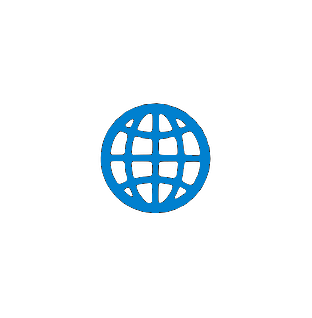
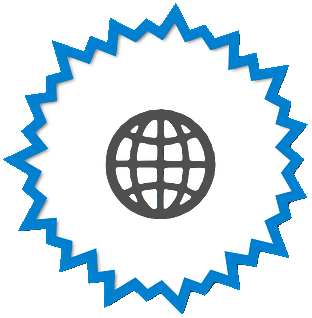
update to website

Changed region(s): [[0.0, 0.0, 0.9808, 0.9906], [0.3173, 0.3113, 0.6923, 0.7075]]

diff --git a/ourplatforms.html b/ourplatforms.html
@@ -59,33 +59,21 @@
       <!--------- MAIN AREA ------------>
       <main>
          <!--------- PLATFORMS ------------>
-         <section id="our_platforms">
-            <div class="container-fluid">
-               <div class="row">
-                  <div class="col-md-6">
-                     <div class="platforms_text text-left">
-                        <h1>Our Platforms</h1>
-                        <p>We have created a multitude of platforms for our users so they can get our cutting edge features even if they don't want to use our browser. Click on the icons to learn more. We look forward to your support!</p>
-                     </div>
-                  </div>
-                  <div class="col-md-6">
-                     <img src="./resources/img/backend-4496461_1280.png" alt="platform" class="img-fluid platform_img">
-                  </div>
-               </div>
-            </div>
+         <section id="our_platforms"> 
          </section>
          <!--------- PLATFORMS ------------>
          <!--------- CYDOG POPPUP   ------------>
          <section id="cydog_popUp_platform_info">
             <section class="about_us" style="position: relative;">
                <div class="container">
+               <img src="./resources/img/ourplatformsheader.png" alt="cydog_exploration" class="img-fluid">
                <div class="container">
                   <div class="row">
                      <div class="col-12">
                         <div class="graphics_up"></div>
                      </div>
                   </div>
-                  <div class="row modal_of" style="background-color:">
+                  <div class="row modal_of">
                      <div class="col-12 col-md-6 mb-5">
                         <div class="d-flex flex-row">
                            <div>
@@ -275,6 +263,31 @@
             </section>
          </section>
          <!--------- CYDOG POPPUP   ------------>
+         <!--------- ABOUT CYDOG   ------------>
+         <section id="our_platforms"> 
+         </section>
+         <section id="about_cydog">
+            <div class="container">
+               <h2>Tools for the Webfarer!</h2>
+               <div class="row">
+                  <div class="col-12">
+                     <div class="row">
+                        <div class="col-md-6">
+                           <div class="left_cydog">
+                              <img src="./resources/img/cydogplatforms.png" alt="cydog" class="img-fluid">
+                           </div>
+                        </div>
+                        <div class="col-md-6">
+                           <div class="about_us_short_info">
+                              <h3>We provide but you decide.</h3>
+                              <p>We provide a number of tools for Webfarers who want to gain access to our cutting edge features outside our core applications. At Cydog Browser, we want people to get back the joy of the internet. We also tend to utilize open source as our backbone so you can vet our projects without having to see our code. Take whatever tool from our toolbox you want. Its the way we do business.</p>
+                           </div>
+                        </div>
+                     </div>
+                  </div>
+               </div>
+         </section>
+         <!--------- ABOUT CYDOG   ------------>
       </main>
       <!--------- MAIN AREA ------------>
       <!---CYDOG FOOTER  -->

diff --git a/aboutus.html b/aboutus.html
@@ -284,7 +284,7 @@
                         </div>
                         <div class="col-md-5 d-flex align-items-center justify-content-md-end justify-content-center">
                            <div class="buttons-container">
-                              <button class="global_btn banner_btn_download down_btn"><a class="text-white" href="BrandingKit/BrandingKit.zip">Download</a><i class="fa fa-download"></i></button> 
+                              <button class="global_btn banner_btn_download down_btn"><a download class="text-white" href="BrandingKit/BrandingKit.zip">Download</a><i class="fa fa-download"></i></button> 
                            </div>
                         </div>
                      </div>
